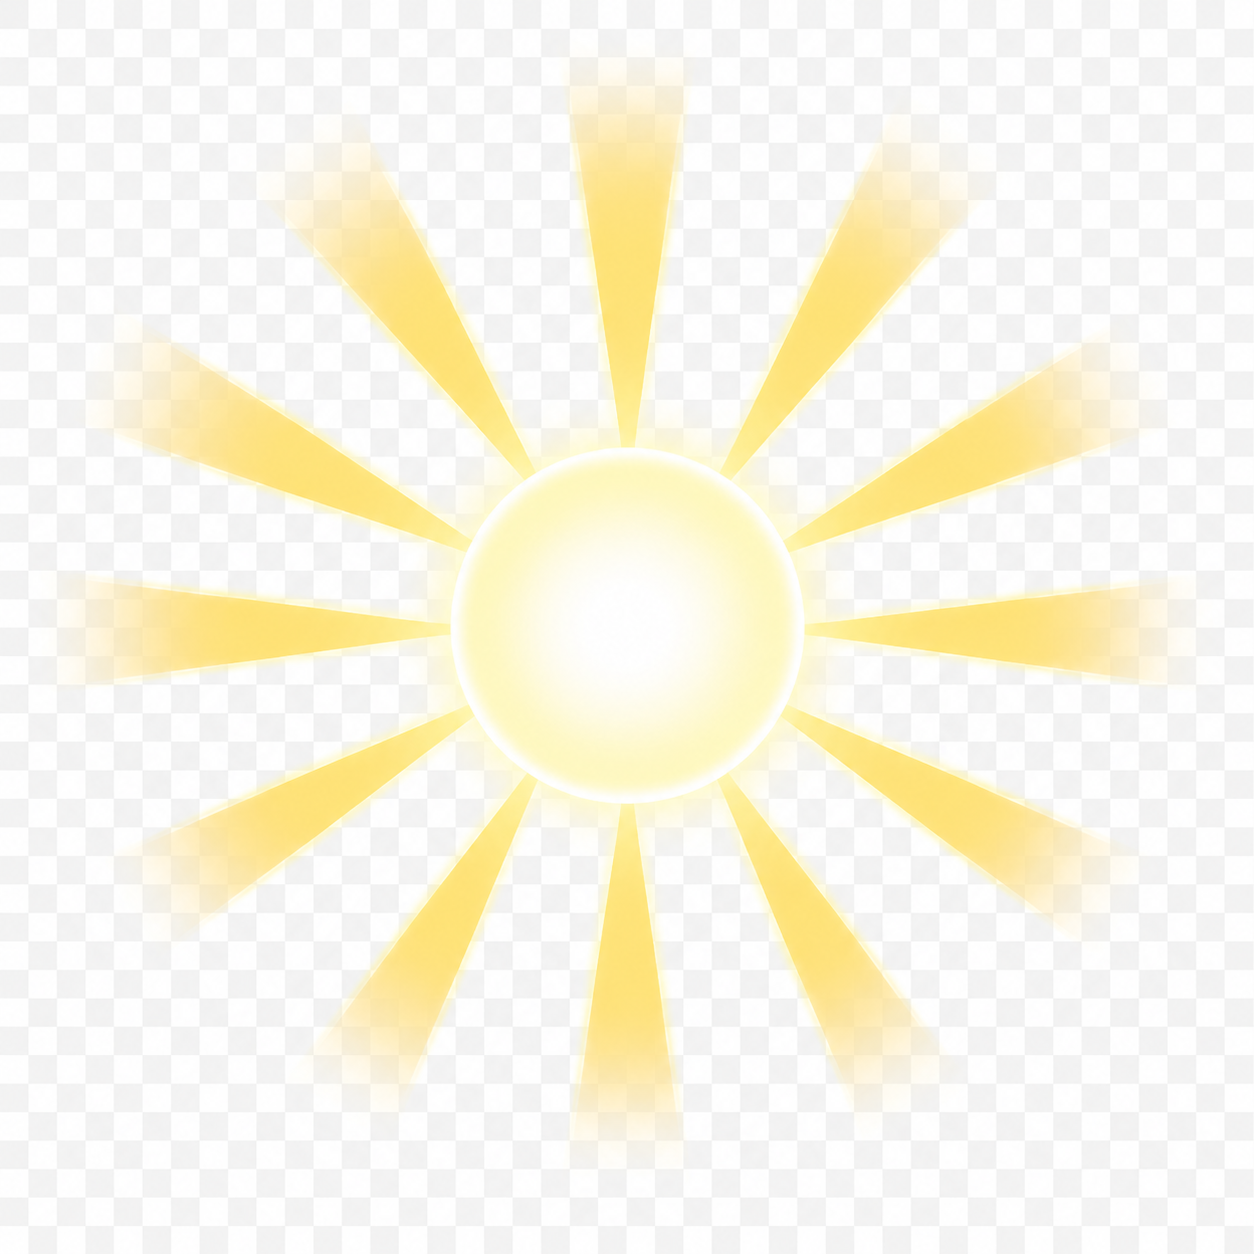
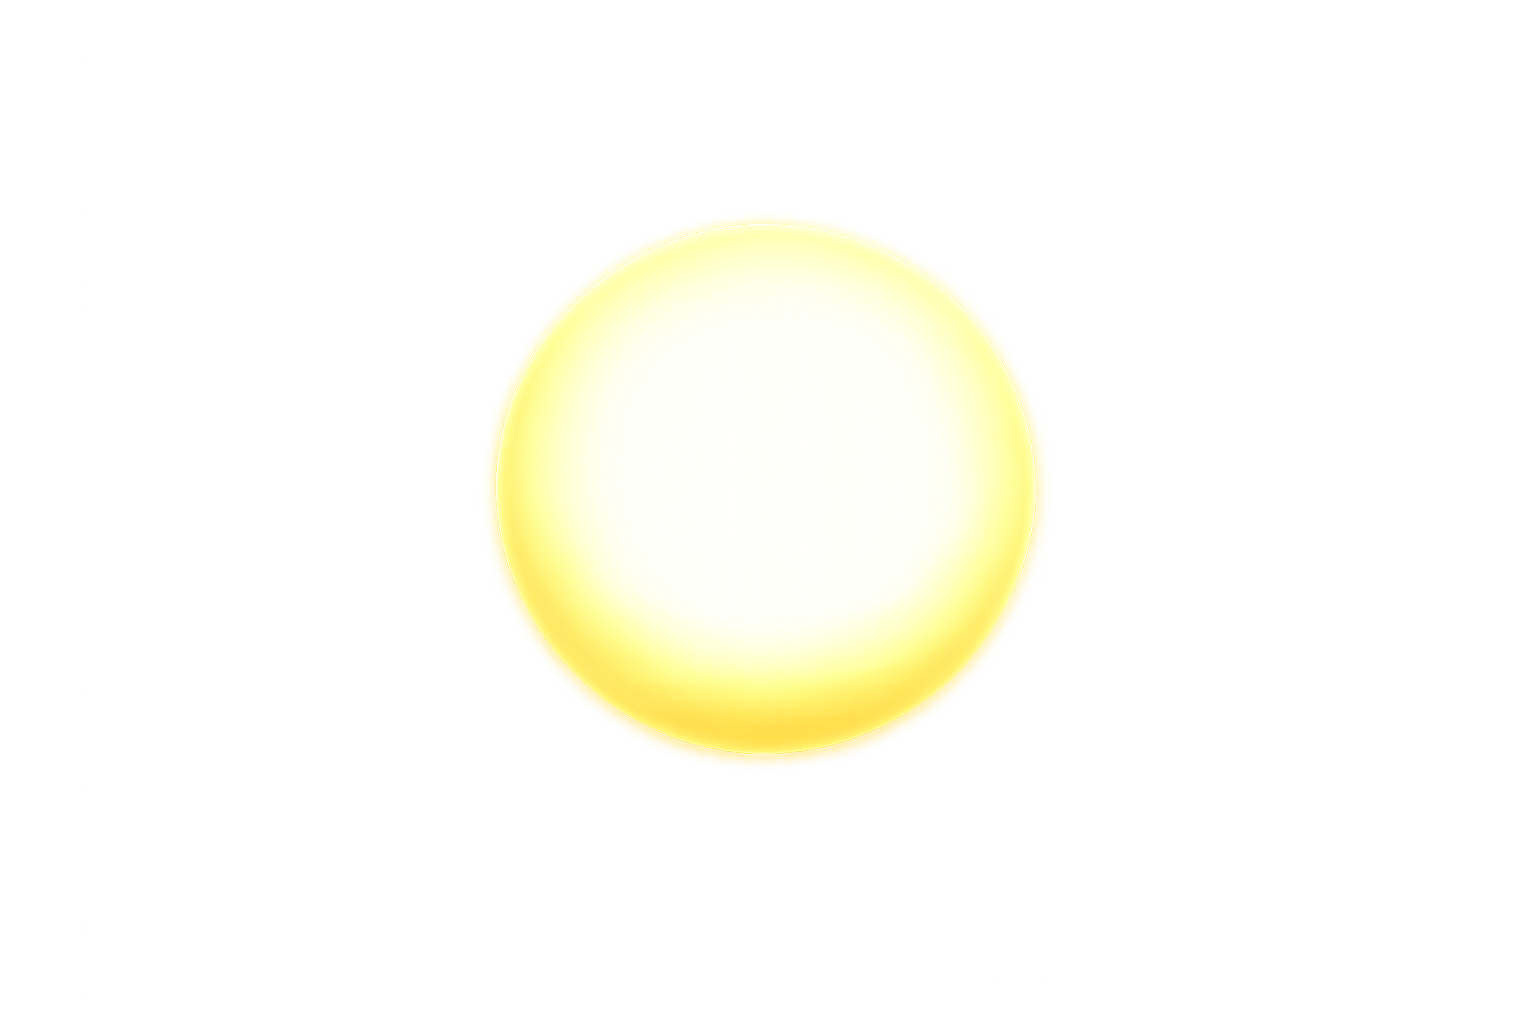
feat(menu): split sun into rays (spin) + disc (static), tune layers
- sunrays.png: MULTIPLY blend, spins at 3.5°/s, behind disc
- sun.png: MULTIPLY blend, stationary disc on top of rays
- constellations: alpha reduced to 0.055 (more transparent)
- foreground: zoomed in ×1.12
- all three centered on belowHorizonCy

Changed region(s): [[0.0311, 0.0312, 0.933, 0.9062]]

diff --git a/js/scenes/MenuScene.js b/js/scenes/MenuScene.js
@@ -6,10 +6,11 @@ export default class MenuScene extends Phaser.Scene {
     }
 
     preload() {
-        this.load.image('menu_sky',    'assets/images/menu/sky.png');
-        this.load.image('menu_stars',  'assets/images/menu/constellations.png');
-        this.load.image('menu_sun',    'assets/images/menu/sun.png');
-        this.load.image('menu_fg',     'assets/images/menu/foreground.png');
+        this.load.image('menu_sky',     'assets/images/menu/sky.png');
+        this.load.image('menu_stars',   'assets/images/menu/constellations.png');
+        this.load.image('menu_sunrays', 'assets/images/menu/sunrays.png');
+        this.load.image('menu_sun',     'assets/images/menu/sun.png');
+        this.load.image('menu_fg',      'assets/images/menu/foreground.png');
     }
 
     create() {
@@ -31,12 +32,10 @@ export default class MenuScene extends Phaser.Scene {
 
     update(time, delta) {
         const dt = delta / 1000;
-        // Sky drifts slowly upward (tilePositionY increase = image moves up)
-        if (this._sky) this._sky.tilePositionY += 18 * dt;
-        // Constellations rotate very slowly
-        if (this._stars) this._stars.angle += 1.2 * dt;
-        // Sun rays spin slowly
-        if (this._sun) this._sun.angle += 3.5 * dt;
+        if (this._sky)     this._sky.tilePositionY += 18 * dt;
+        if (this._stars)   this._stars.angle   += 1.2 * dt;
+        if (this._sunrays) this._sunrays.angle  += 3.5 * dt;
+        // sun disc is stationary — no update needed
     }
 
     _startNew() {
@@ -71,17 +70,24 @@ export default class MenuScene extends Phaser.Scene {
         const starDiameter = Math.max(W, H) * 1.15;
         this._stars = this.add.image(cx, belowHorizonCy, 'menu_stars')
             .setDisplaySize(starDiameter, starDiameter)
-            .setAlpha(0.09)
+            .setAlpha(0.055)
             .setBlendMode(Phaser.BlendModes.MULTIPLY);
 
-        // ── 3. Sun — centred on same point, rays spin ──────────────────────────
-        const sunSize = Math.min(W, H) * 0.52;
-        this._sun = this.add.image(cx, belowHorizonCy, 'menu_sun')
-            .setDisplaySize(sunSize, sunSize);
+        // ── 3. Sun rays — behind disc, spinning; MULTIPLY so white bg vanishes ─
+        const raysSize = Math.min(W, H) * 0.68;
+        this._sunrays = this.add.image(cx, belowHorizonCy, 'menu_sunrays')
+            .setDisplaySize(raysSize, raysSize)
+            .setBlendMode(Phaser.BlendModes.MULTIPLY);
 
-        // ── 4. Foreground — transparent PNG composited over everything ──────────
+        // ── 4. Sun disc — stationary, centred on same point ────────────────────
+        const sunSize = Math.min(W, H) * 0.28;
+        this._sun = this.add.image(cx, belowHorizonCy, 'menu_sun')
+            .setDisplaySize(sunSize, sunSize)
+            .setBlendMode(Phaser.BlendModes.MULTIPLY);
+
+        // ── 5. Foreground — zoom in slightly (×1.12) then anchor to bottom ─────
         this.add.image(cx, H, 'menu_fg')
-            .setScale(fgScale)
+            .setScale(fgScale * 1.12)
             .setOrigin(0.5, 1);
     }
 